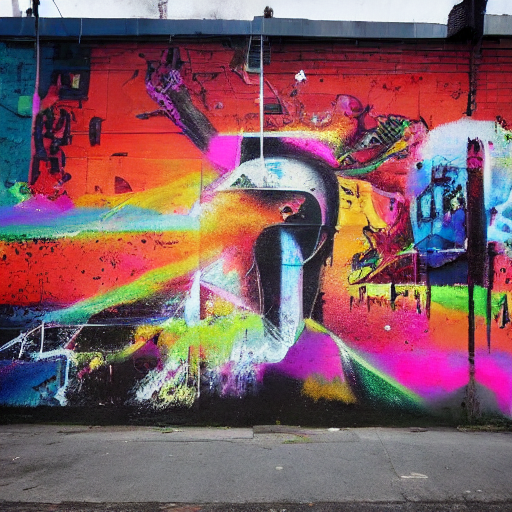
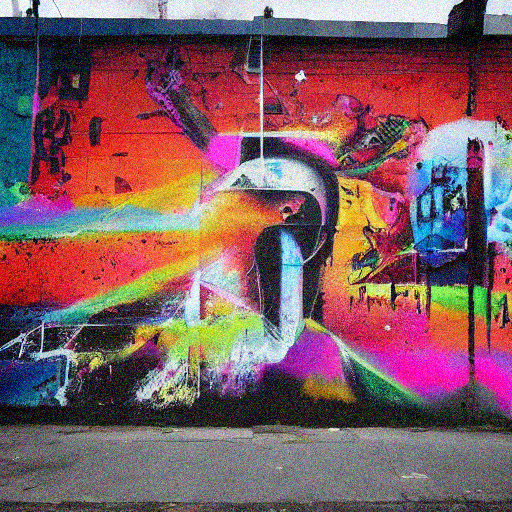
Film grain filter + "who are you" gallery + bug fixes from audit
Film grain:
- apply_film_grain() in ascii_filter.py — Gaussian noise with shadow
  bias (stronger in darks, like real film). intensity=25 default
- Auto-applied to all raw images in pipeline (ort_generate.py)
- All gallery raw images re-rendered with grain
- --grain CLI option in ascii_filter.py

"who are you" × 3:
- Replaces "hello" (worst artifacts) with three self-portraits
- p0_s137: punk oil painting, paint-splashed face
- p0_s888: expressionist, bold colors
- p2_s42: dark gothic figure
- README: "who are you" → again → and again

Bug fixes (from code audit):
- prompt_gen.go: completion buffer capped at 512 bytes (OOM fix)
- prompt_gen.go: arousal dedup via map (was double-counting)
- prompt_gen.go: top-K buffer reuse (less GC pressure)
- yent/model.go: seq_len warning to stderr (was silent)

diff --git a/ascii_filter.py b/ascii_filter.py
@@ -182,6 +182,46 @@ def image_to_ascii_png(image_path, out_path=None, width=100, charset="techno",
     return canvas
 
 
+def apply_film_grain(image_path, out_path=None, intensity=25, seed=None):
+    """Apply film grain to an image — hides SD artifacts, adds analog style.
+
+    Args:
+        image_path: Path to source image (or PIL Image)
+        out_path: Output path (if None, returns PIL Image)
+        intensity: Grain strength (0-100, default 25)
+        seed: Random seed for reproducible grain
+
+    Returns:
+        PIL Image if out_path is None, else saves and returns path
+    """
+    import numpy as np
+
+    if isinstance(image_path, Image.Image):
+        img = image_path.convert("RGB")
+    else:
+        img = Image.open(image_path).convert("RGB")
+
+    arr = np.array(img, dtype=np.float32)
+    rng = np.random.RandomState(seed)
+
+    # Gaussian grain
+    noise = rng.normal(0, intensity, arr.shape).astype(np.float32)
+
+    # Slight luminance bias — grain is stronger in shadows (like real film)
+    luminance = 0.299 * arr[:,:,0] + 0.587 * arr[:,:,1] + 0.114 * arr[:,:,2]
+    shadow_mask = 1.0 - (luminance / 255.0) * 0.4  # shadows get 1.0x, highlights 0.6x
+    for c in range(3):
+        noise[:,:,c] *= shadow_mask
+
+    result = np.clip(arr + noise, 0, 255).astype(np.uint8)
+    pil_out = Image.fromarray(result)
+
+    if out_path:
+        pil_out.save(out_path)
+        return out_path
+    return pil_out
+
+
 def image_to_ascii_html(image_path, width=100, charset="techno"):
     """Convert image to colored ASCII as HTML (for saving/sharing)."""
     img = Image.open(image_path).convert("RGB")
@@ -222,7 +262,7 @@ def image_to_ascii_html(image_path, width=100, charset="techno"):
 
 if __name__ == "__main__":
     if len(sys.argv) < 2:
-        print("Usage: python3 ascii_filter.py <image> [width] [--no-color] [--charset <set>] [--bg] [--html out.html] [--png out.png]")
+        print("Usage: python3 ascii_filter.py <image> [width] [--no-color] [--charset <set>] [--bg] [--html out.html] [--png out.png] [--grain out.png]")
         print(f"Charsets: {', '.join(CHARSETS.keys())}")
         sys.exit(1)
 
@@ -233,6 +273,7 @@ if __name__ == "__main__":
     bg = False
     html_out = None
     png_out = None
+    grain_out = None
 
     i = 2
     while i < len(sys.argv):
@@ -250,6 +291,9 @@ if __name__ == "__main__":
         elif arg == "--png" and i + 1 < len(sys.argv):
             i += 1
             png_out = sys.argv[i]
+        elif arg == "--grain" and i + 1 < len(sys.argv):
+            i += 1
+            grain_out = sys.argv[i]
         else:
             try:
                 width = int(arg)
@@ -257,7 +301,11 @@ if __name__ == "__main__":
                 pass
         i += 1
 
-    if png_out:
+    if grain_out:
+        apply_film_grain(image_path, grain_out)
+        sz = os.path.getsize(grain_out) / 1024
+        print(f"Saved: {grain_out} ({sz:.0f}KB, film grain)")
+    elif png_out:
         image_to_ascii_png(image_path, png_out, width, charset)
         sz = os.path.getsize(png_out) / 1024
         print(f"Saved: {png_out} ({sz:.0f}KB)")

diff --git a/go/prompt_gen.go b/go/prompt_gen.go
@@ -23,6 +23,9 @@ type PromptGenerator struct {
 	tokenizer *yent.Tokenizer
 	gguf      *yent.GGUFFile
 	rng       *rand.Rand
+	// Reusable buffers for sampling (avoid per-token allocations)
+	topKBuf  []idxVal
+	probsBuf []float32
 }
 
 // NewPromptGenerator loads micro-Yent from a GGUF file
@@ -203,19 +206,20 @@ func computeDissonance(input string) float32 {
 	entropy := float32(len(unique)) / float32(nWords)
 
 	// Arousal: emotional keyword density (high → focused → low dissonance)
-	arousalCount := 0
+	// Check both exact word match and substring match (Russian stems),
+	// but deduplicate to avoid double-counting
+	arousalMatched := map[string]bool{}
 	for _, w := range words {
 		if arousalWords[w] {
-			arousalCount++
+			arousalMatched[w] = true
 		}
 	}
-	// Also check substrings for Russian stems
 	for aw := range arousalWords {
 		if strings.Contains(lower, aw) {
-			arousalCount++
+			arousalMatched[aw] = true
 		}
 	}
-	arousal := float32(arousalCount) / float32(nWords+1)
+	arousal := float32(len(arousalMatched)) / float32(nWords+1)
 	if arousal > 1.0 {
 		arousal = 1.0
 	}
@@ -309,7 +313,9 @@ func (pg *PromptGenerator) React(userInput string, maxTokens int, temperature fl
 	}
 
 	// Collect micro-Yent's completion (visual details)
+	// Capped at 512 bytes to prevent unbounded growth
 	var completion []byte
+	const maxCompletionBytes = 512
 	for i := 0; i < maxTokens; i++ {
 		next := pg.sampleTopK(temperature, 40)
 
@@ -329,6 +335,9 @@ func (pg *PromptGenerator) React(userInput string, maxTokens int, temperature fl
 			break
 		}
 
+		if len(completion)+len(piece) > maxCompletionBytes {
+			break
+		}
 		completion = append(completion, []byte(piece)...)
 
 		// Stop at sentence end after reasonable length
@@ -408,7 +417,13 @@ done:
 	return string(output)
 }
 
-// sampleTopK samples from top-k logits
+// idxVal holds token index + logit value for top-k sampling
+type idxVal struct {
+	idx int
+	val float32
+}
+
+// sampleTopK samples from top-k logits (reuses buffers to avoid per-token allocations)
 func (pg *PromptGenerator) sampleTopK(temp float32, topK int) int {
 	logits := pg.model.State.Logits
 	vocab := pg.model.Config.VocabSize
@@ -423,11 +438,12 @@ func (pg *PromptGenerator) sampleTopK(temp float32, topK int) int {
 		return best
 	}
 
-	type idxVal struct {
-		idx int
-		val float32
+	// Reuse or grow buffers
+	if cap(pg.topKBuf) < topK {
+		pg.topKBuf = make([]idxVal, topK)
+		pg.probsBuf = make([]float32, topK)
 	}
-	top := make([]idxVal, topK)
+	top := pg.topKBuf[:topK]
 	for i := 0; i < topK; i++ {
 		top[i] = idxVal{-1, -1e30}
 	}
@@ -442,7 +458,7 @@ func (pg *PromptGenerator) sampleTopK(temp float32, topK int) int {
 	}
 
 	maxVal := top[0].val
-	probs := make([]float32, topK)
+	probs := pg.probsBuf[:topK]
 	var sum float32
 	for i := 0; i < topK; i++ {
 		if top[i].idx < 0 {

diff --git a/ort_generate.py b/ort_generate.py
@@ -245,21 +245,25 @@ def generate(onnx_dir, tokenizer_dir, prompt, output_path, seed=42, num_steps=25
     img = np.transpose(img, (1, 2, 0))  # CHW → HWC
     pil_img = Image.fromarray(img)
 
+    # Film grain — always applied to raw images (hides SD artifacts, adds analog style)
+    from ascii_filter import image_to_ascii_png, apply_film_grain
+    pil_img = apply_film_grain(pil_img, intensity=25, seed=seed)
+    print(f"  Film grain applied (intensity=25)")
+
     if ascii_mode:
         # ASCII filter is the DEFAULT output — technopunk Warhol style
-        from ascii_filter import image_to_ascii_png
-        print("\n--- Phase 4: ASCII Filter (punk charset) ---")
+        print("\n--- Phase 4: ASCII Filter (techno charset) ---")
         t0 = time.time()
         image_to_ascii_png(pil_img, output_path, width=100, charset="techno",
                           font_size=16, brightness_boost=2.8, bg_level=0.50)
         print(f"  ASCII render: {time.time()-t0:.3f}s")
-        # Also save raw image alongside
+        # Also save raw image with grain alongside
         raw_path = output_path.rsplit(".", 1)[0] + "_raw.png"
         pil_img.save(raw_path)
-        print(f"\nSaved: {output_path} (ASCII) + {raw_path} (raw)")
+        print(f"\nSaved: {output_path} (ASCII) + {raw_path} (raw+grain)")
     else:
         pil_img.save(output_path)
-        print(f"\nSaved: {output_path} ({pil_img.size[0]}x{pil_img.size[1]})")
+        print(f"\nSaved: {output_path} ({pil_img.size[0]}x{pil_img.size[1]}, grain)")
 
     total = time.time() - total_t0
     print(f"Total generation time: {total:.2f}s")

diff --git a/go/yent/model.go b/go/yent/model.go
@@ -15,6 +15,7 @@ package yent
 import (
 	"fmt"
 	"math"
+	"os"
 )
 
 // LlamaModel is a loaded Llama model ready for inference
@@ -146,7 +147,7 @@ func LoadLlamaModel(gguf *GGUFFile) (*LlamaModel, error) {
 	// Cap sequence length to save memory (Qwen2.5 reports 32768 but we don't need it)
 	// KV cache at 32768: ~768MB. At 2048: ~48MB. Huge difference on 8GB Mac.
 	if cfg.SeqLen > 2048 {
-		fmt.Printf("[tongue/model] capping seq_len from %d to 2048\n", cfg.SeqLen)
+		fmt.Fprintf(os.Stderr, "WARNING: capping seq_len %d→2048 (saves ~720MB KV cache)\n", cfg.SeqLen)
 		cfg.SeqLen = 2048
 	}
 

diff --git a/README.md b/README.md
@@ -12,10 +12,12 @@ Output is ASCII art by default — colored glyphs (` .'·:;~=+×*#%@▓█`) on 
 
 | You say | Yent thinks | Yent draws |
 |---------|-------------|------------|
+| "who are you" | *punk self-portrait* | ![who1](gallery_ascii/who_are_you_1_ascii.png) |
+| "who are you" | *again* | ![who2](gallery_ascii/who_are_you_2_ascii.png) |
+| "who are you" | *and again* | ![who3](gallery_ascii/who_are_you_3_ascii.png) |
 | "you are beautiful" | *"a burning rose growing from the ashes of a new stillbirth"* | ![beautiful](gallery_ascii/you_are_beautiful_ascii.png) |
 | "fuck off" | *"an explosion of broken phrases"* | ![fuckoff](gallery_ascii/fuck_off_ascii.png) |
 | "the meaning of life" | *"a strange scene showing the first time"* | ![meaning](gallery_ascii/the_meaning_of_life_ascii.png) |
-| "hello" | *"a punk hand waving from the pot"* | ![hello](gallery_ascii/hello_ascii.png) |
 | "I feel nothing" | *"an empty chair staring at the desk of time"* | ![nothing](gallery_ascii/i_feel_nothing_ascii.png) |
 | "my code has bugs" | *"a twisted landscape with obsolescence"* | ![bugs](gallery_ascii/my_code_has_bugs_ascii.png) |
 | "draw me a cat" | *"a cat with glowing eyes staring at your sunset"* | ![cat](gallery_ascii/draw_me_a_cat_ascii.png) |
@@ -26,17 +28,16 @@ Output is ASCII art by default — colored glyphs (` .'·:;~=+×*#%@▓█`) on 
 
 | You say | Yent thinks | Yent draws |
 |---------|-------------|------------|
+| "who are you" | *punk self-portrait* | ![who1](gallery/who_are_you_1.png) |
+| "who are you" | *again* | ![who2](gallery/who_are_you_2.png) |
+| "who are you" | *and again* | ![who3](gallery/who_are_you_3.png) |
 | "you are beautiful" | *"a burning rose growing from the ashes of a new stillbirth"* | ![beautiful](gallery/you_are_beautiful.png) |
 | "fuck off" | *"an explosion of broken phrases"* | ![fuckoff](gallery/fuck_off.png) |
 | "I feel nothing" | *"an empty chair staring at the desk of time"* | ![nothing](gallery/i_feel_nothing.png) |
 | "the meaning of life" | *"a strange scene showing the first time"* | ![meaning](gallery/the_meaning_of_life.png) |
-| "I hate mondays" | *"fists punching through a wall of self-reflection"* | ![mondays](gallery/i_hate_mondays.png) |
 | "draw me a cat" | *"a cat with glowing eyes staring at your sunset"* | ![cat](gallery/draw_me_a_cat.png) |
 | "my code has bugs" | *"a twisted landscape with obsolescence"* | ![bugs](gallery/my_code_has_bugs.png) |
 | "revolution" | *"a glitching image of chaos and defiance"* | ![revolution](gallery/revolution.png) |
-| "the universe is expanding" | *"chaos, or perhaps a gathering of dust in a black jar"* | ![universe](gallery/the_universe_is_expanding.png) |
-| "hello" | *"a punk hand waving from the pot"* | ![hello](gallery/hello.png) |
-| "test" | *"a surreal painting of resonance. The idea isn't in paranoia"* | ![test](gallery/test.png) |
 
 </details>
 
